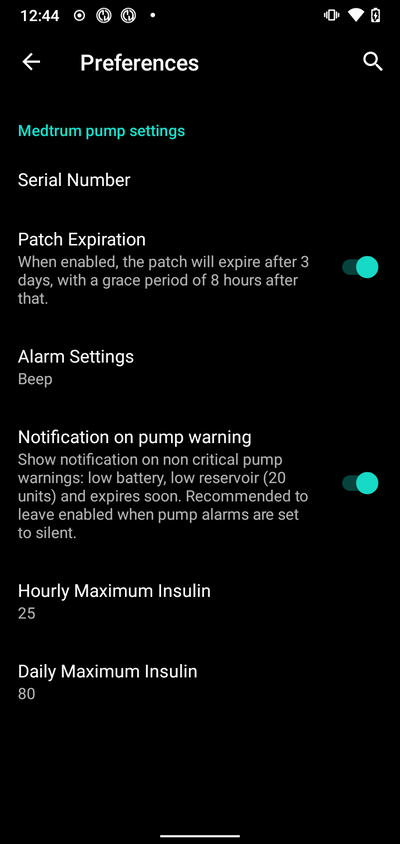
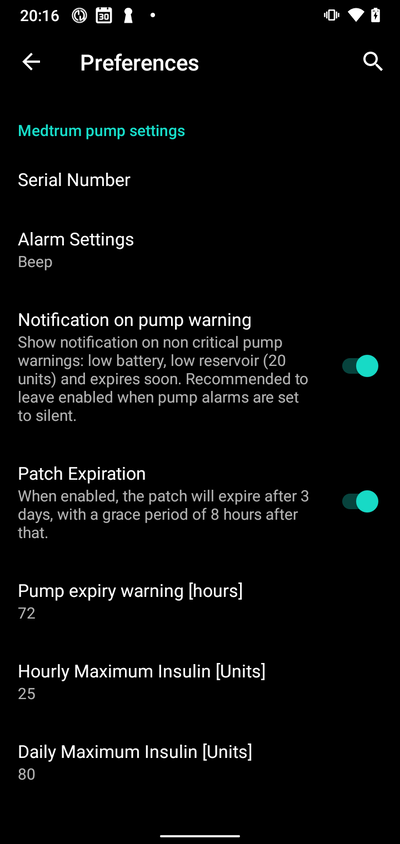
Update settings to include patch expiration warning

diff --git a/docs/EN/Configuration/MedtrumNano.md b/docs/EN/Configuration/MedtrumNano.md
@@ -1,7 +1,6 @@
 # Medtrum Nano / 300U
 
 These instructions are for configuring the Medtrum insulin pump. 
-**The Medtrum driver is planned but not commited for AAPS 3.2 (next version)!**
 
 This software is part of a DIY artificial pancreas solution and is not a product but requires YOU to read, learn, and understand the system, including how to use it. You alone are responsible for what you do with it.
 
@@ -16,7 +15,7 @@ This software is part of a DIY artificial pancreas solution and is not a product
         - Medtrum TouchCare Nano with pumpbase refs: **MD0201** and **MD8201**.
         - Medtrum TouchCare 300U with pumpbase ref: **MD8301**.
         - If you have an unsupported model and are willing to donate hardware or assist with testing, please contact us via discord [here](https://discordapp.com/channels/629952586895851530/1076120802476441641).
-* **Version 3.2.0 or newer of AAPS built and installed** using the [Build APK](../Installing-AndroidAPS/Building-APK.md) instructions.
+* **Version 3.2.0.0 or newer of AAPS built and installed** using the [Build APK](../Installing-AndroidAPS/Building-APK.md) instructions.
 * **Compatible Android phone** with a BLE Bluetooth connection 
     - See AAPS [Release Notes](../Installing-AndroidAPS/Releasenotes.md)
 * [**Continuous Glucose Monitor (CGM)**](BG-Source.md)
@@ -77,16 +76,6 @@ Enter the serial number of your pumpbase here as noted on the pumpbase. Make sur
 
 NOTE: This setting can only be changed when there is no patch active.
 
-#### Patch Expiration
-
-***Default: Enabled.***
-
-This setting changes the behavior of the patch. When enabled the patch will expire after 3 days and give an audible warning if you have sound enabled. After 3 days and 8 hours the patch will stop working.
-
-If this setting is disabled, the patch will not warn you and will continue running until the patch battery or reservoir runs out.
-
-
-
 #### Alarm settings
 
 ***Default: Beep.***
@@ -109,6 +98,20 @@ When enabled a Notification will be shown on the phone when a pump warning occur
     - Patch expiration warning
 
 In either case these warnings are also shown on the Medtrum overview screen under [Active alarms](#active-alarms).
+
+#### Patch Expiration
+
+***Default: Enabled.***
+
+This setting changes the behavior of the patch. When enabled the patch will expire after 3 days and give an audible warning if you have sound enabled. After 3 days and 8 hours the patch will stop working.
+
+If this setting is disabled, the patch will not warn you and will continue running until the patch battery or reservoir runs out.
+
+#### Pump expiry warning
+
+***Default: 72 hours.***
+
+This setting changes the time of the expiration warning, when [Patch Expiration](#patch-expiration) is enabled, AAPS will give a notification on the set hour after activation.
 
 #### Hourly Maximum Insulin
 
